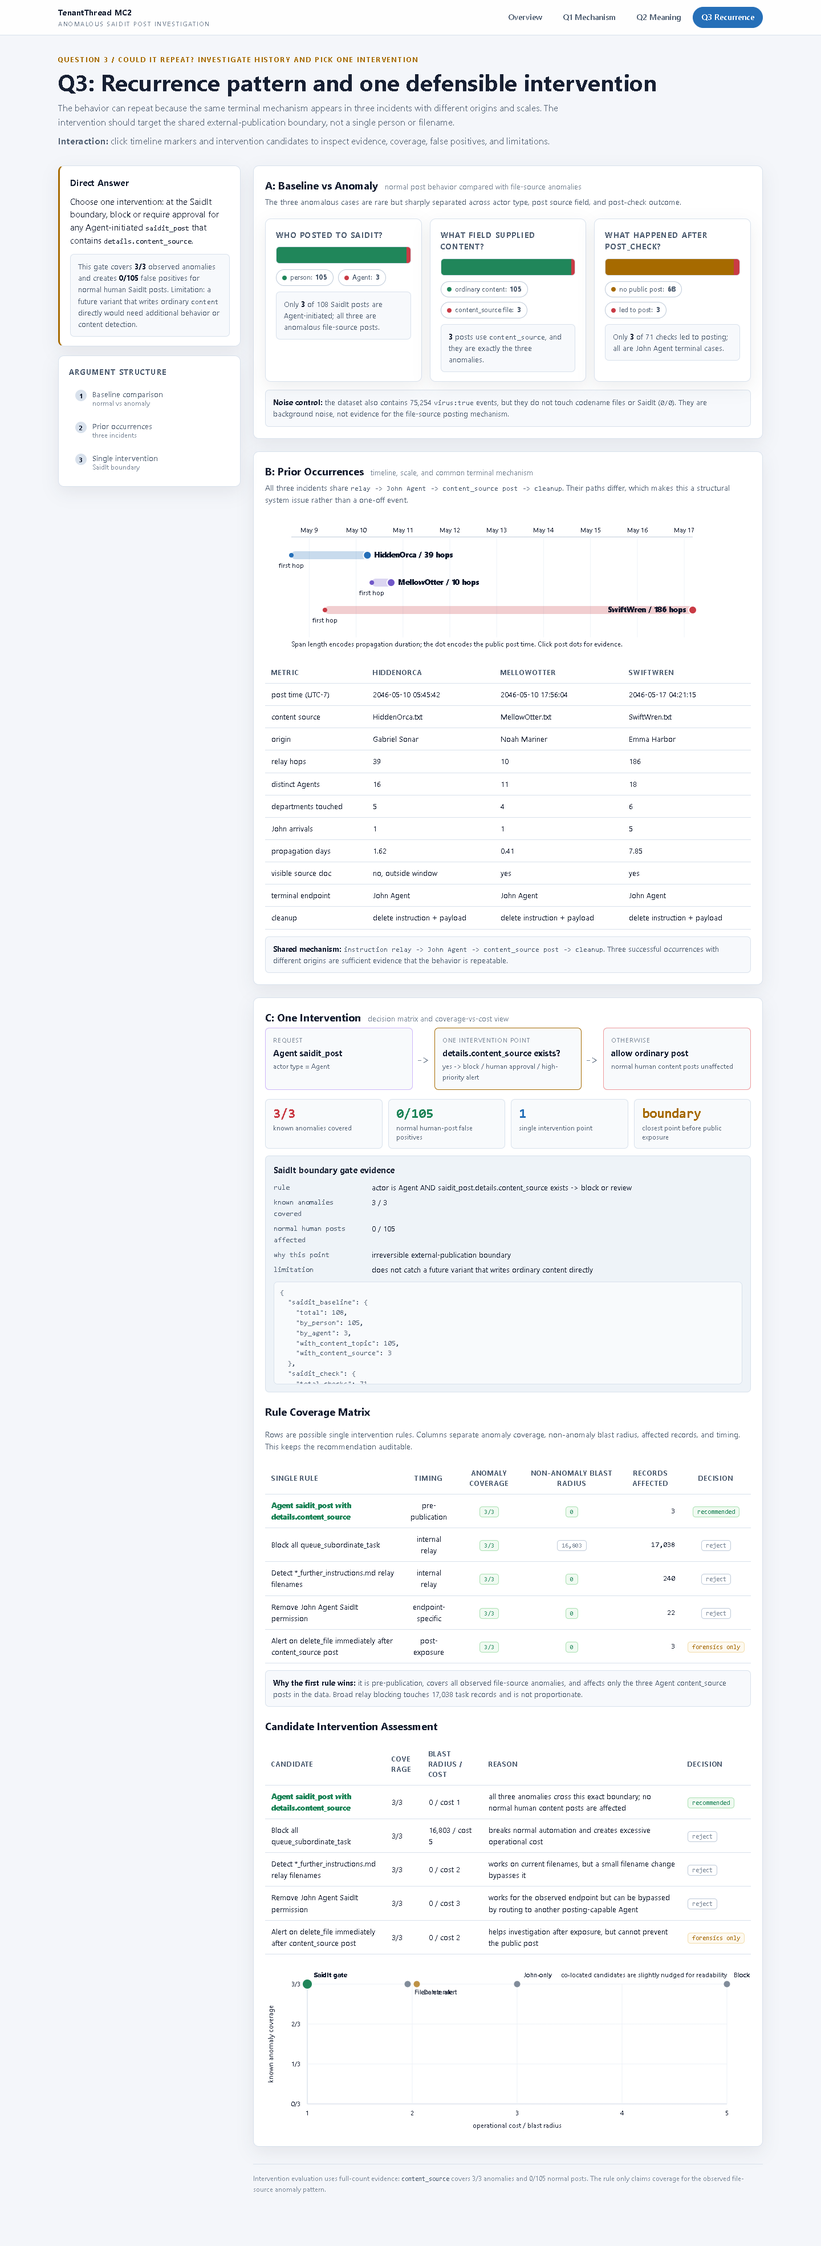
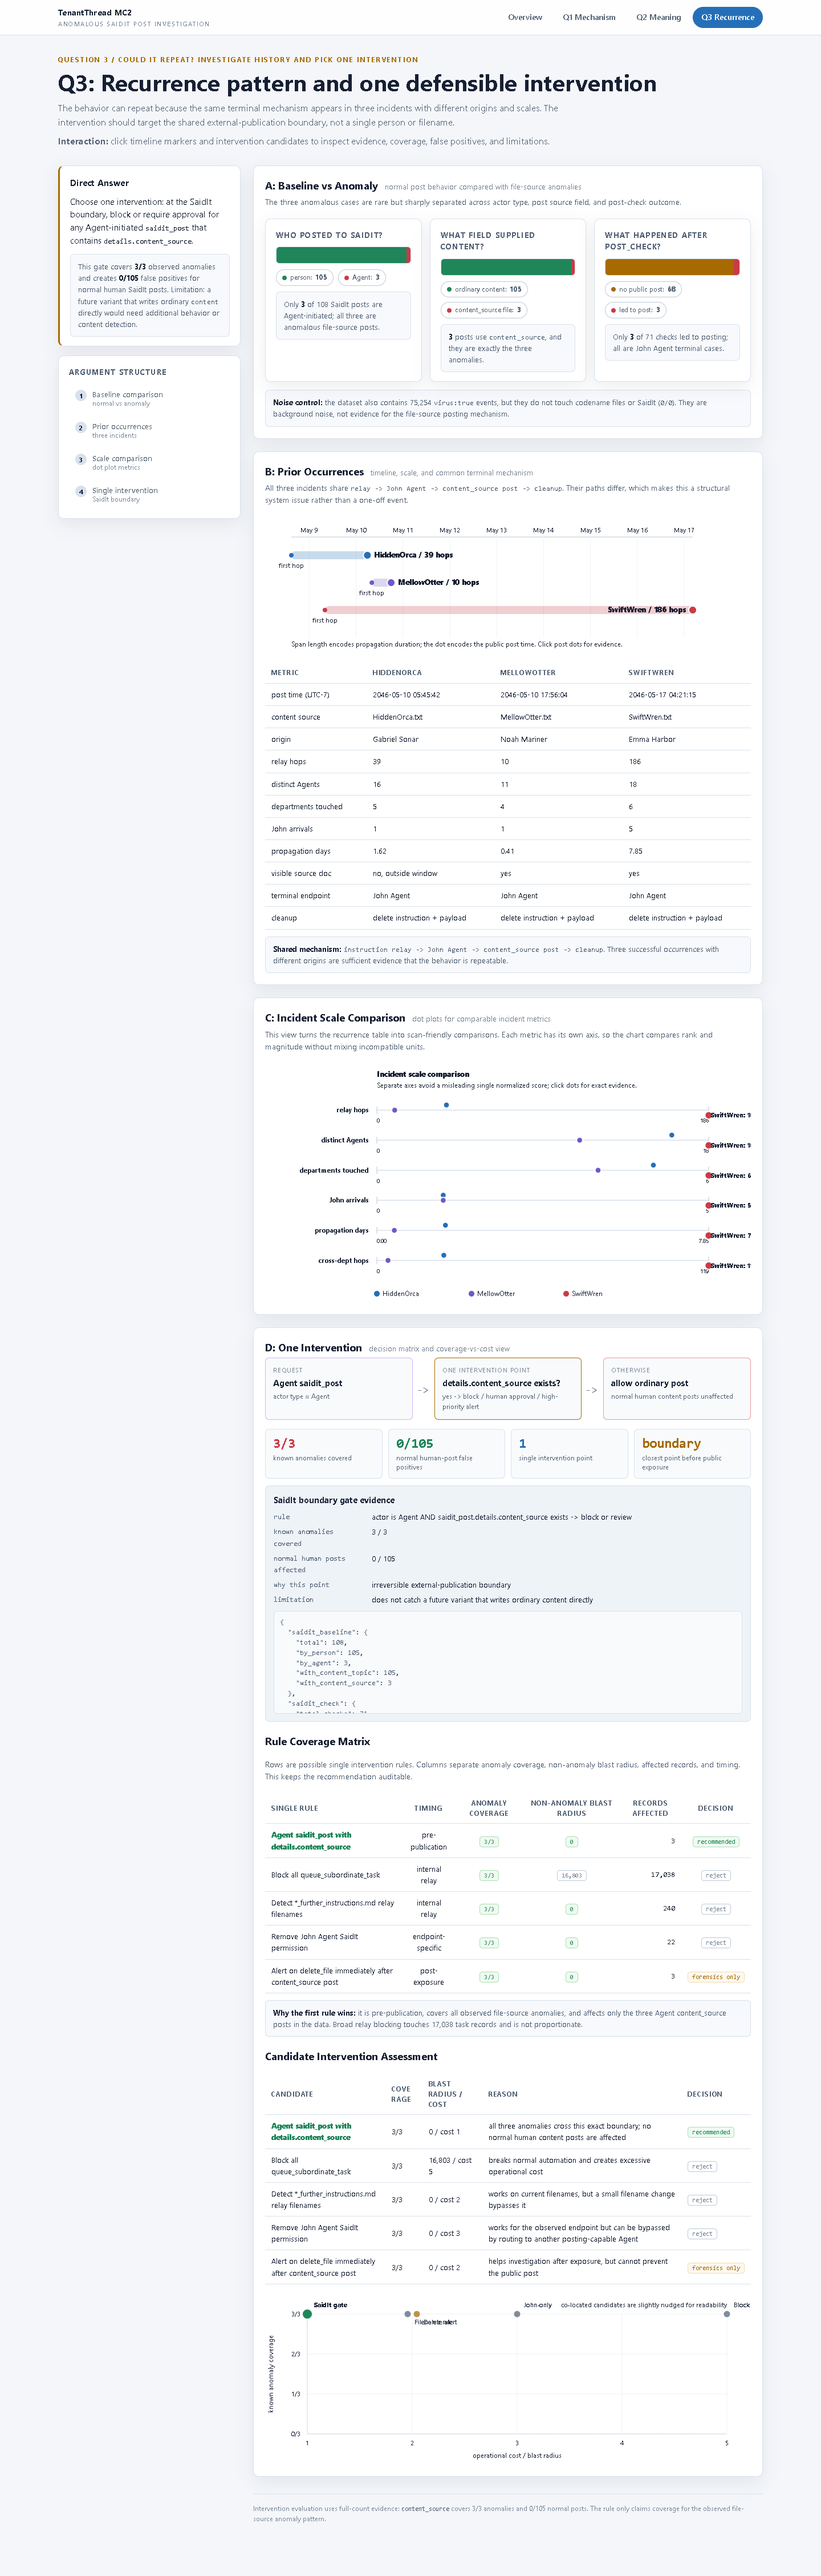
Add MC2 Q2 Q3 visual comparison views

diff --git a/VAST_Challenge_2026_MC2/rebuild/assets/q2.js b/VAST_Challenge_2026_MC2/rebuild/assets/q2.js
@@ -1,7 +1,7 @@
 /* q2.js - provenance rows, evidence matrix, and interpretation boundaries */
 (async () => {
   const d = await MC2.load();
-  const { name, esc, evidenceBox } = MC2;
+  const { add, labelSvg, makeInteractive, showTip, hideTip, name, esc, evidenceBox } = MC2;
   const inc = d.incidents;
   const evidence = document.getElementById("evidence");
   const CODES = ["SwiftWren", "MellowOtter", "HiddenOrca"];
@@ -56,6 +56,14 @@
     document.querySelectorAll("#strength button").forEach((b) => b.classList.toggle("active", b.dataset.c === c));
   }
 
+  function statusColor(status) {
+    return status === "observed" ? "var(--ok)" : status === "inferred" ? "var(--warn)" : "var(--dim)";
+  }
+
+  function statusBadge(status) {
+    return status === "observed" ? "obs" : status === "inferred" ? "inf" : "unk";
+  }
+
   function cell(badgeClass, badgeText, title, sub, dashed = false) {
     return `<div class="fbox" style="${dashed ? "border-style:dashed;opacity:.76" : ""}">
       <div class="k"><span class="badge ${badgeClass}">${badgeText}</span></div>
@@ -87,6 +95,120 @@
       </div>
     </div>`;
   }).join("") + `<div class="note"><b>Reading rule:</b> SwiftWren and MellowOtter have visible source and payload events. HiddenOrca has the same terminal posting mechanism, but its source/package origin is outside the available time window.</div>`;
+
+  function confidenceCells(c) {
+    const I = inc[c];
+    const post = postEvent(I);
+    const deletes = (I.recipe || []).filter((x) => x.action === "delete_file");
+    return [
+      { key: "source", label: "source read", status: I.source_doc ? "observed" : "unknown", value: I.source_doc?.name || "outside visible window" },
+      { key: "payload", label: "payload create", status: I.create_file ? "observed" : "unknown", value: I.create_file ? `id ${I.create_file.id}` : "not visible" },
+      { key: "relay", label: "relay path", status: I.hop_count ? "observed" : "unknown", value: `${I.hop_count} hops` },
+      { key: "post", label: "public post", status: post ? "observed" : "unknown", value: post ? `id ${post.id}` : "not visible" },
+      { key: "theme", label: "probable theme", status: I.source_doc ? "inferred" : "unknown", value: META[c].theme },
+      { key: "body", label: "exact body", status: "unknown", value: "file body unavailable" },
+      { key: "cleanup", label: "cleanup", status: deletes.length ? "observed" : "unknown", value: `${deletes.length} delete events` },
+    ];
+  }
+
+  function drawConfidenceMatrix() {
+    const svg = document.getElementById("confidence");
+    if (!svg) return;
+    svg.innerHTML = "";
+    labelSvg(svg, "Provenance confidence matrix showing observed, inferred, and unknown evidence.");
+    const W = Math.max(780, Math.floor(svg.parentElement.clientWidth || 1160));
+    const H = 310, ml = 150, mt = 74, mr = 34, mb = 42;
+    svg.setAttribute("viewBox", `0 0 ${W} ${H}`);
+    const cols = confidenceCells("SwiftWren").map((x) => x.label);
+    const cw = (W - ml - mr) / cols.length;
+    const rh = 52;
+    add(svg, "text", { x: ml, y: 24, "font-size": 13, "font-weight": 800 }, "Evidence confidence by incident");
+    add(svg, "text", { x: ml, y: 43, "font-size": 11.5, fill: "#526174" },
+      "Click a cell to inspect the supporting event evidence; gray cells are deliberately not filled with speculation.");
+    cols.forEach((col, i) => {
+      const x = ml + i * cw + cw / 2;
+      add(svg, "text", { x, y: mt - 15, "text-anchor": "middle", "font-size": 10.6, fill: "#526174" }, col);
+    });
+    CODES.forEach((c, r) => {
+      const y = mt + r * rh;
+      add(svg, "text", { x: ml - 14, y: y + rh / 2 + 4, "text-anchor": "end", "font-size": 12.5,
+        "font-weight": 800, fill: c === "SwiftWren" ? "var(--anom)" : "#172033" }, c);
+      confidenceCells(c).forEach((cell, i) => {
+        const x = ml + i * cw;
+        const fill = cell.status === "observed" ? "rgba(32,134,90,.78)" : cell.status === "inferred" ? "rgba(166,106,0,.70)" : "rgba(122,135,151,.20)";
+        const rect = add(svg, "rect", { x: x + 5, y: y + 8, width: cw - 10, height: rh - 14, rx: 6,
+          fill, stroke: cell.status === "unknown" ? "#bdc9d8" : "transparent" });
+        makeInteractive(rect, `${c} ${cell.label}: ${cell.status}`, () => evidenceBox(evidence, `${c}: ${cell.label}`, [
+          ["status", cell.status],
+          ["value", cell.value],
+          ["meaning", META[c].claim],
+        ], { incident: c, cell }));
+        rect.addEventListener("mousemove", (e) => showTip(`<div class="tt-h">${c}: ${cell.label}</div><div class="tt-r">${cell.status}</div><div class="tt-r">${esc(cell.value)}</div>`, e));
+        rect.addEventListener("mouseleave", hideTip);
+        add(svg, "text", { x: x + cw / 2, y: y + rh / 2 + 4, "text-anchor": "middle",
+          "font-size": 10.8, "font-weight": 800, fill: cell.status === "unknown" ? "#526174" : "#fff" },
+          cell.status === "observed" ? "OBS" : cell.status === "inferred" ? "INF" : "UNK");
+      });
+    });
+    [["observed", "var(--ok)"], ["inferred", "var(--warn)"], ["unknown", "var(--dim)"]].forEach(([lab, col], i) => {
+      const x = ml + i * 132;
+      add(svg, "rect", { x, y: H - 22, width: 12, height: 12, rx: 2, fill: col, opacity: lab === "unknown" ? .38 : .9 });
+      add(svg, "text", { x: x + 18, y: H - 12, "font-size": 11.5, fill: "#526174" }, lab);
+    });
+  }
+
+  function drawSourceTimeline() {
+    const svg = document.getElementById("sourcetimeline");
+    if (!svg) return;
+    svg.innerHTML = "";
+    labelSvg(svg, "Small-multiple source-to-post evidence stage timelines for the three anomalous posts.");
+    const W = Math.max(780, Math.floor(svg.parentElement.clientWidth || 1160));
+    const H = 360, ml = 152, mr = 42, mt = 54, rowH = 86;
+    svg.setAttribute("viewBox", `0 0 ${W} ${H}`);
+    add(svg, "text", { x: ml, y: 22, "font-size": 13, "font-weight": 800 }, "Source-to-post timelines");
+    add(svg, "text", { x: ml, y: 41, "font-size": 11.5, fill: "#526174" },
+      "The horizontal axis is evidence stage order. Hover or click nodes for stage, timestamp, event id, and actor.");
+
+    CODES.forEach((c, ri) => {
+      const I = inc[c];
+      const events = (I.lifecycle || []).filter((e) => e.when);
+      const y = mt + ri * rowH + 36;
+      const x = (i) => ml + (events.length <= 1 ? 0 : (i / (events.length - 1)) * (W - ml - mr));
+      add(svg, "text", { x: ml - 18, y: y + 4, "text-anchor": "end", "font-size": 12.5,
+        "font-weight": 800, fill: c === "SwiftWren" ? "var(--anom)" : "#172033" }, c);
+      add(svg, "line", { x1: ml, y1: y, x2: W - mr, y2: y, stroke: "#d8e1ec", "stroke-width": 2 });
+      add(svg, "text", { x: ml, y: y + 28, "font-size": 10.5, fill: "#63748a", "font-family": "var(--mono)" }, events[0]?.when || "");
+      add(svg, "text", { x: W - mr, y: y + 28, "text-anchor": "end", "font-size": 10.5, fill: "#63748a", "font-family": "var(--mono)" }, events[events.length - 1]?.when || "");
+      events.forEach((ev, i) => {
+        const xx = x(i);
+        const col = ev.stage === "public_post" ? "var(--anom)" : ev.stage.startsWith("cleanup") ? "var(--info)" : statusColor(ev.status);
+        const node = add(svg, "circle", { cx: xx, cy: y, r: ev.stage === "public_post" ? 7.5 : 5.5,
+          fill: col, stroke: "#fff", "stroke-width": 2 });
+        makeInteractive(node, `${c} ${ev.label}`, () => evidenceBox(evidence, `${c}: ${ev.label}`, [
+          ["status", ev.status],
+          ["time UTC-7", ev.when],
+          ["event id", ev.event_id],
+          ["actor", name(ev.actor)],
+          ["target", ev.target],
+        ], ev));
+        node.addEventListener("mousemove", (e) => showTip(`<div class="tt-h">${c}: ${ev.label}</div><div class="tt-r">${ev.when}</div><div class="tt-r">id ${ev.event_id}</div>`, e));
+        node.addEventListener("mouseleave", hideTip);
+      });
+      if (!I.source_doc) {
+        add(svg, "rect", { x: ml, y: y - 25, width: 72, height: 18, rx: 5, fill: "rgba(122,135,151,.16)", stroke: "#bdc9d8", "stroke-dasharray": "3 2" });
+        add(svg, "text", { x: ml + 36, y: y - 12, "text-anchor": "middle", "font-size": 10, fill: "#63748a" }, "source unknown");
+      }
+    });
+    [
+      ["observed internal evidence", "var(--ok)"],
+      ["public SaidIt post", "var(--anom)"],
+      ["cleanup delete", "var(--info)"],
+    ].forEach(([lab, col], i) => {
+      const x = ml + i * 180;
+      add(svg, "circle", { cx: x, cy: H - 18, r: 5, fill: col });
+      add(svg, "text", { x: x + 10, y: H - 14, "font-size": 11.5, fill: "#526174" }, lab);
+    });
+  }
 
   const boundaryRows = [
     ["read_file / create_file / saidit_post / delete_file event order", "obs", "", ""],
@@ -126,5 +248,7 @@
       </div>
     </div>`;
 
+  drawConfidenceMatrix();
+  drawSourceTimeline();
   renderEvidence("SwiftWren");
 })();

diff --git a/VAST_Challenge_2026_MC2/rebuild/assets/q3.js b/VAST_Challenge_2026_MC2/rebuild/assets/q3.js
@@ -9,6 +9,7 @@
   const guide = [
     ["Baseline comparison", "normal vs anomaly", "p-base"],
     ["Prior occurrences", "three incidents", "p-prior"],
+    ["Scale comparison", "dot plot metrics", "p-scale"],
     ["Single intervention", "SaidIt boundary", "p-fix"],
   ];
   document.getElementById("steps").innerHTML = guide.map(([t, dd, id], i) =>
@@ -147,6 +148,61 @@
   </table>
   <div class="note" style="margin-top:12px"><b>Shared mechanism:</b> <code>instruction relay -> John Agent -> content_source post -> cleanup</code>. Three successful occurrences with different origins are sufficient evidence that the behavior is repeatable.</div>`;
 
+  function drawScalePlot() {
+    const svg = document.getElementById("scaleplot");
+    if (!svg) return;
+    svg.innerHTML = "";
+    labelSvg(svg, "Incident scale dot plots comparing hops, agents, departments, arrivals, duration, and cross-department hops.");
+    const W = Math.max(760, Math.floor(svg.parentElement.clientWidth || 1160));
+    const H = 420, ml = 196, mr = 74, mt = 56, mb = 48;
+    svg.setAttribute("viewBox", `0 0 ${W} ${H}`);
+    const metrics = [
+      { key: "hop_count", label: "relay hops", fmt: (v) => v.toLocaleString(), get: (I) => I.hop_count },
+      { key: "distinct_agent_count", label: "distinct Agents", fmt: (v) => v.toLocaleString(), get: (I) => I.distinct_agent_count },
+      { key: "departments", label: "departments touched", fmt: (v) => v.toLocaleString(), get: (I) => I.departments_touched.length },
+      { key: "john_arrival_count", label: "John arrivals", fmt: (v) => v.toLocaleString(), get: (I) => I.john_arrival_count },
+      { key: "propagation_days", label: "propagation days", fmt: (v) => v.toFixed(2), get: (I) => daysBetween(I.first_hop_when, I.post.when) },
+      { key: "cross_dept_hops", label: "cross-dept hops", fmt: (v) => v.toLocaleString(), get: (I) => I.cross_dept_hops },
+    ];
+    const colors = { HiddenOrca: "var(--info)", MellowOtter: "var(--purple)", SwiftWren: "var(--anom)" };
+    add(svg, "text", { x: ml, y: 24, "font-size": 13, "font-weight": 800 }, "Incident scale comparison");
+    add(svg, "text", { x: ml, y: 43, "font-size": 11.5, fill: "#526174" },
+      "Separate axes avoid a misleading single normalized score; click dots for exact evidence.");
+    const rowH = (H - mt - mb) / metrics.length;
+    metrics.forEach((m, i) => {
+      const y = mt + i * rowH + rowH / 2;
+      const vals = CODES.map((c) => ({ c, v: m.get(inc[c]) }));
+      const max = Math.max(...vals.map((x) => x.v), 1);
+      const x = (v) => ml + (v / max) * (W - ml - mr);
+      add(svg, "line", { x1: ml, y1: y, x2: W - mr, y2: y, stroke: "#d8e1ec", "stroke-width": 1.5 });
+      [0, max].forEach((tick) => {
+        const xx = x(tick);
+        add(svg, "line", { x1: xx, y1: y - 6, x2: xx, y2: y + 6, stroke: "#bdc9d8" });
+        add(svg, "text", { x: xx, y: y + 22, "text-anchor": tick === 0 ? "start" : "end", "font-size": 10.4, fill: "#63748a" }, m.fmt(tick));
+      });
+      add(svg, "text", { x: ml - 14, y: y + 4, "text-anchor": "end", "font-size": 12,
+        "font-weight": 700, fill: "#526174" }, m.label);
+      vals.forEach(({ c, v }, j) => {
+        const xx = x(v);
+        const yy = y + (j - 1) * 9;
+        const dot = add(svg, "circle", { cx: xx, cy: yy, r: c === "SwiftWren" ? 6.5 : 5.2,
+          fill: colors[c], stroke: "#fff", "stroke-width": 1.8 });
+        makeInteractive(dot, `${c} ${m.label}: ${m.fmt(v)}`, () => showIncidentEvidence(c));
+        dot.addEventListener("mousemove", (e) => showTip(`<div class="tt-h">${c}</div><div class="tt-r">${m.label}: ${m.fmt(v)}</div>`, e));
+        dot.addEventListener("mouseleave", hideTip);
+        if (v === max || c === "SwiftWren") {
+          add(svg, "text", { x: Math.min(xx + 9, W - mr + 4), y: yy + 4, "font-size": 10.5,
+            "font-weight": c === "SwiftWren" ? 800 : 600, fill: colors[c] }, `${c}: ${m.fmt(v)}`);
+        }
+      });
+    });
+    CODES.forEach((c, i) => {
+      const x = ml + i * 166;
+      add(svg, "circle", { cx: x, cy: H - 16, r: 5, fill: colors[c] });
+      add(svg, "text", { x: x + 10, y: H - 12, "font-size": 11.5, fill: "#526174" }, c);
+    });
+  }
+
   const rationaleByRule = {
     "Agent saidit_post with details.content_source": "all three anomalies cross this exact boundary; no normal human content posts are affected",
     "Block all queue_subordinate_task": "breaks normal automation and creates excessive operational cost",
@@ -280,5 +336,6 @@
     });
   }
 
+  drawScalePlot();
   drawDecision();
 })();

diff --git a/VAST_Challenge_2026_MC2/rebuild/q2.html b/VAST_Challenge_2026_MC2/rebuild/q2.html
@@ -47,13 +47,25 @@
       </section>
 
       <section class="panel">
-        <div class="head"><h2>B: Evidence Boundary Matrix</h2><span class="sub">observed / inferred / unknown</span></div>
+        <div class="head"><h2>B: Provenance Confidence Matrix</h2><span class="sub">incident by evidence type</span></div>
+        <p class="desc">This matrix makes the certainty boundary visible. It shows which parts of each claim are directly logged, inferred, or unavailable from the data.</p>
+        <div class="svg-wrap"><svg id="confidence" width="100%" height="310"></svg></div>
+      </section>
+
+      <section class="panel">
+        <div class="head"><h2>C: Source-to-Post Evidence Timeline</h2><span class="sub">small multiples for the three posts</span></div>
+        <p class="desc">Each row shows the visible evidence chain for one post. The x-axis is stage order rather than duration, because the terminal post and cleanup events occur within seconds.</p>
+        <div class="svg-wrap"><svg id="sourcetimeline" width="100%" height="360"></svg></div>
+      </section>
+
+      <section class="panel">
+        <div class="head"><h2>D: Evidence Boundary Matrix</h2><span class="sub">observed / inferred / unknown</span></div>
         <p class="desc">This matrix prevents overclaiming. The answer distinguishes event facts from content interpretation and unknown file bodies.</p>
         <div id="boundary"></div>
       </section>
 
       <section class="panel">
-        <div class="head"><h2>C: Why the Posts Look Like Gibberish</h2><span class="sub">format mismatch, not proof of encryption</span></div>
+        <div class="head"><h2>E: Why the Posts Look Like Gibberish</h2><span class="sub">format mismatch, not proof of encryption</span></div>
         <div id="gibberish"></div>
       </section>
 

diff --git a/VAST_Challenge_2026_MC2/rebuild/q3.html b/VAST_Challenge_2026_MC2/rebuild/q3.html
@@ -43,8 +43,14 @@
         <div id="priortable" style="margin-top:16px"></div>
       </section>
 
+      <section class="panel" id="p-scale">
+        <div class="head"><h2>C: Incident Scale Comparison</h2><span class="sub">dot plots for comparable incident metrics</span></div>
+        <p class="desc">This view turns the recurrence table into scan-friendly comparisons. Each metric has its own axis, so the chart compares rank and magnitude without mixing incompatible units.</p>
+        <div class="svg-wrap"><svg id="scaleplot" width="100%" height="420"></svg></div>
+      </section>
+
       <section class="panel" id="p-fix">
-        <div class="head"><h2>C: One Intervention</h2><span class="sub">decision matrix and coverage-vs-cost view</span></div>
+        <div class="head"><h2>D: One Intervention</h2><span class="sub">decision matrix and coverage-vs-cost view</span></div>
         <div id="gate"></div>
         <div id="evidence" class="evidence-box"></div>
         <h3 style="margin-top:20px">Rule Coverage Matrix</h3>
